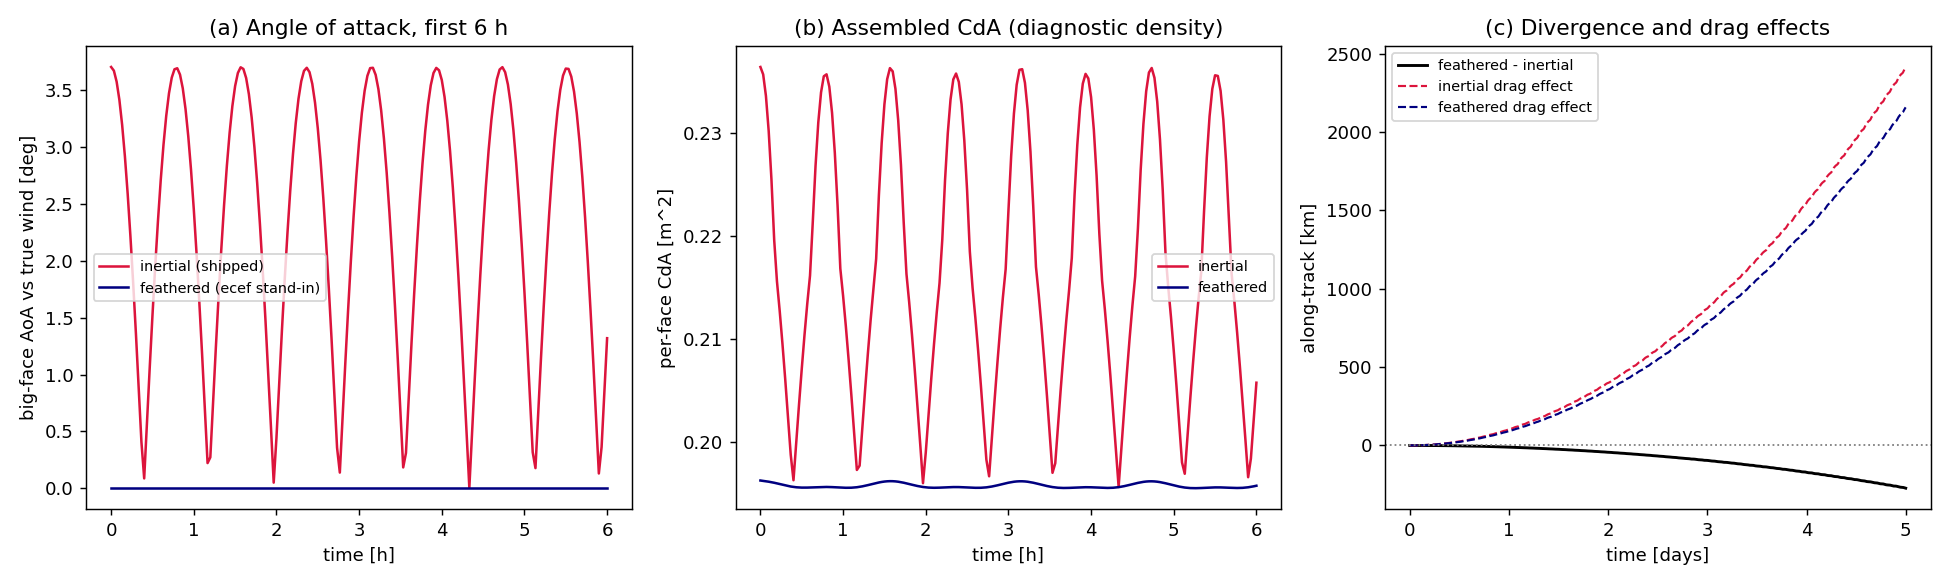
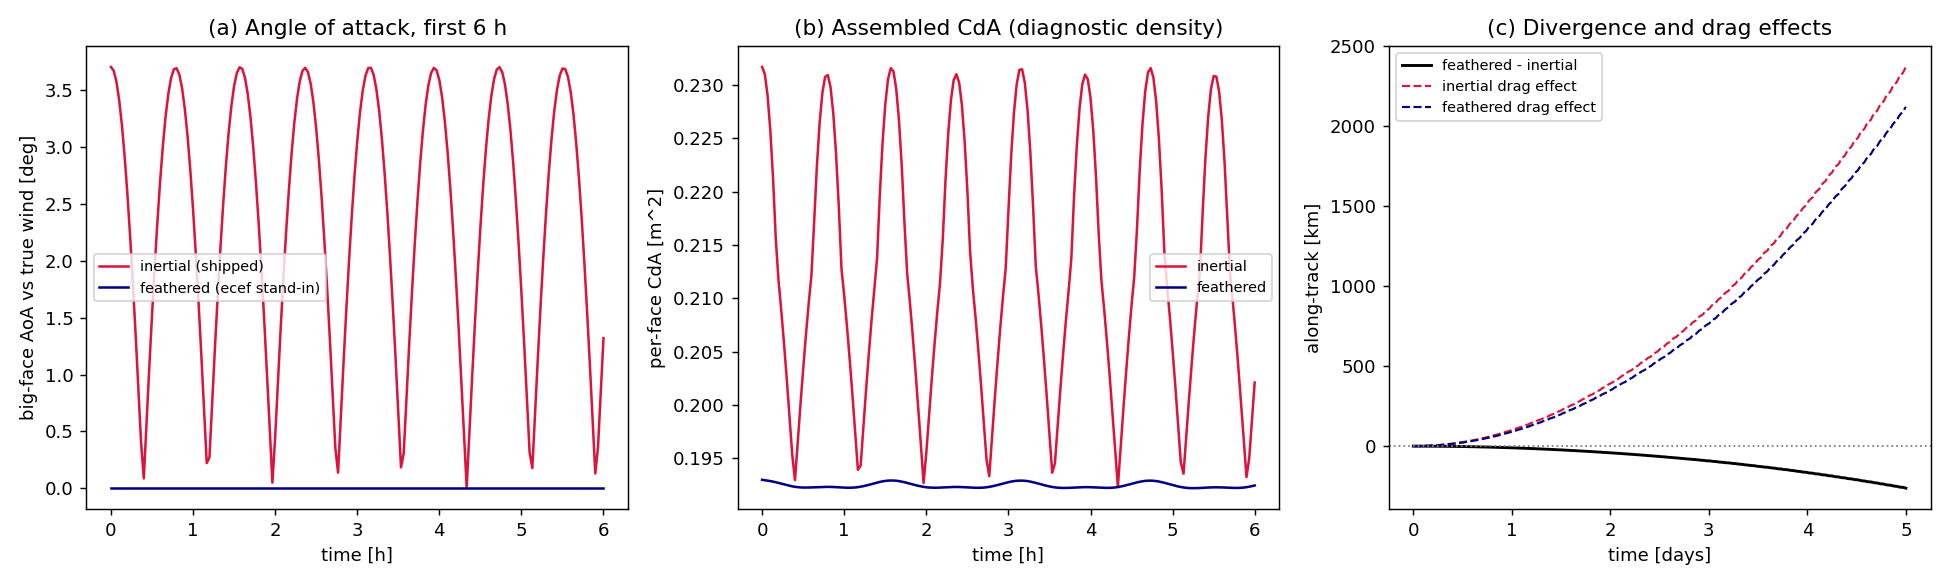
Re-run of ECEF feather study with new Cd tables.

diff --git a/src/propygator/propagation/spacecraft.py b/src/propygator/propagation/spacecraft.py
@@ -496,18 +496,18 @@ class BoxFaceCd:
     attitude-correlated, so its orbit-level benefit depends on how the body flies.
     For **face-on / nadir-held / tumbling / Sun-pointing** flight a best-fit
     *physical* constant Cd (or :class:`VariableCd`) absorbs almost all of it
-    (< 1 % along-track over a multi-day LEO run), and ``BoxFaceCd`` is not worth its
+    (~1 % along-track over a multi-day LEO run), and ``BoxFaceCd`` is not worth its
     per-substep cost. Its load-bearing case is **grazing / edge-on flight of a
     high-area-to-mass flat plate** (a solar / drag sail), where the tangential shear
     dominates: a physical constant Cd *under*-predicts along-track by a factor of ~2
-    that a recalibrated scalar cannot absorb (~1400-1640 km / 5 d at 400 km, solar
-    max; best-fit Cd ~= 4.7 still leaves a ~100 km residual). That non-absorbable
-    regime is why it ships. The ~2x is measured with :class:`InPlaneTracking` at its
-    default *inertial* velocity reference, so the body sat a few degrees off the true
-    Earth-relative flow (the idealized perfectly-edge-on benefit is larger, ~9x).
+    that no physical scalar can absorb (~1490-1590 km / 5 d at 400 km, solar max;
+    the best-fit Cd ~= 4.6 is above the free-molecular range and still leaves a
+    ~35 km residual). That non-absorbable regime is why it ships. The ~2x is measured
+    with :class:`InPlaneTracking` at its default *inertial* velocity reference, so the
+    body sat a few degrees off the true Earth-relative flow.
     ``InPlaneTracking(velocity_reference="ecef")`` now closes that gap — it holds the
     plate exactly on the co-rotating flow, a real but modest further refinement
-    (~1.12x drag-effect cut, −273 km along-track / 5 d, for a 1 m² / 0.5 kg sail on a
+    (~1.12x drag-effect cut, −263 km along-track / 5 d, for a 1 m² / 0.5 kg sail on a
     500 km SSO at solar max; inclination-dependent, vanishing for equatorial
     prograde). Evidence: ``experiments/ecef-attitude-benefit/``.
     """

diff --git a/experiments/drag-coefficient-verification/cd_box_benefit_study_edgeon.py b/experiments/drag-coefficient-verification/cd_box_benefit_study_edgeon.py
@@ -251,7 +251,7 @@ def main() -> None:
     print(f"along-track by ~{abs(f_cd22)/1e3:.0f} km over {WINDOW_DAYS:.0f} days; "
           f"recovering it needs Cd~{c_star:.1f} "
           f"({'above' if c_star > PHYSICAL_CD_CEIL else 'within'} the physical range).")
-    print(f"(Not the idealized ~9x: InPlaneTracking tracks INERTIAL velocity, but the")
+    print(f"(Short of a perfect edge-on hold: InPlaneTracking tracks INERTIAL velocity, but the")
     print(f" flow is Earth-relative (co-rotation), so the sail sits a few deg off exact")
     print(f" edge-on -- the large faces keep some projected area Tier A does capture.)")
     print(f"At this altitude/epoch, BoxFace drag is {drag_vs_srp:.1f}x the SRP effect, "

diff --git a/docs/features.md b/docs/features.md
@@ -430,7 +430,7 @@ BoxFaceCd.from_callable(fn, *, name=None)    # fn(radius_m, density_kgm3, theta_
 
 **Tier B — per-face incidence table (`BoxFaceCd`, convex box).** A box's true Cd also depends on how each *face* meets the flow. `BoxFaceCd` resolves this per face: a single universal `(geocentric radius, total density, face-flow angle θ ∈ [0, π])` table whose value is **one face's** Cd, referenced to that face's **full** area, as a function of the angle θ between the face normal and the incoming flow (θ = 0 head-on, π⁄2 edge-on, π fully leeward). The incidence projection is already baked in — the normal-pressure part falls off as `cos θ`, but the tangential-shear part does **not** vanish edge-on (it floors at ~0.07 at θ = π⁄2 and tapers smoothly to ~0 by θ ≈ 110°) — so the table spans the leeward half and every face is a direct lookup. In free-molecular flow a **convex** body never self-shadows, so total drag is the exact **independent sum of the six per-face contributions**: at runtime the attitude rotates the flow direction into the body frame, each face's θ is formed, and `CdA = Σ_i Cd_i · A_i` is assembled over the full face areas (no re-projection) and applied as the sphere-style `a = ½ (CdA/m) ρ |v_rel| v_rel`. Because the coefficient is per-unit-area and geometry-independent, **one shipped default serves every convex box and plate** — `BoxFaceCd.default()` (asset `data/box_face_cd_default.npz`), carrying the same gas-surface assumptions as the Tier A sphere default (SESAM accommodation anchored α = 0.90 / 400 km solar-max, diffuse re-emission, 300 K wall); a spacecraft with markedly different surface physics supplies its own via `from_table` / `from_callable`. The axis is θ (not `cos θ`): the shear's `sin θ` factor is smooth in θ but becomes `√(1−cos²θ)` — an infinite-derivative cusp at the poles — in `cos θ`, so a θ axis interpolates linearly with clean ~2nd-order convergence and no special node placement. All six faces are evaluated (windward *and* leeward) — dropping the leeward/edge shear would understate a near-cubic bus's drag by ~5–11 % at a face-on attitude and inject a non-physical discontinuity there. `BoxFaceCd` is **convex-box-only**: valid on `box_and_panels` with `solar_array_area_m2 == 0` (a protruding, articulating array makes the body non-convex, and its sweeping bus-array shadowing needs a panel method / DSMC — out of scope). Binding design: `docs/history/general-upgrades-1.md` "Tier B Drag".
 
-**When `BoxFaceCd` matters (honest, scenario-dependent).** The per-face correction is *attitude-correlated*, so its orbit-level benefit depends entirely on how the body flies. For a bus flown **face-on / nadir-held / tumbling / Sun-pointing** — where the ram meets faces near head-on — a best-fit *physical* constant Cd (or `VariableCd`) absorbs almost all of the difference: the along-track divergence over a multi-day LEO propagation is **< 1 %**, and `BoxFaceCd` is not worth its per-substep cost there. Its load-bearing case is **grazing / edge-on flight of a high-area-to-mass flat plate (a solar / drag sail)**: there the tangential shear dominates, a physical constant Cd (2.2, or `VariableCd`) *under*-predicts along-track by ~1400–1640 km over 5 days at 400 km / solar max, and the constant needed to patch it (best-fit Cd ≈ 4.7) is unphysically large and *still* leaves a ~100 km residual — a **~2× effect a recalibrated scalar cannot absorb**. That non-absorbable regime is why `BoxFaceCd` ships. **Caveat on the ~2× figure:** it was measured with `InPlaneTracking` at its default **inertial** velocity reference, so the body sat a few degrees off the true Earth-relative flow (the idealized perfectly-edge-on benefit is larger, ~9×). That limitation is now addressable: **`InPlaneTracking(velocity_reference="ecef")`** (a v0.5.0 general upgrade) holds the plate exactly on the co-rotating flow. Feathering to the true wind is a real but modest *further* refinement, honestly measured with the shipped mode: for a 1 m² / 0.5 kg sail on a 500 km SSO at solar max it cuts the drag effect another **~1.12×** (−273 km along-track over 5 days vs the `inertial` reference); the wind misalignment peaks at ~3.7° for near-polar orbits and vanishes for equatorial prograde, so the benefit is inclination-dependent. Binding design: `general-upgrades-1.md` "ECEF InPlaneTracking"; evidence: `experiments/ecef-attitude-benefit/`.
+**When `BoxFaceCd` matters (honest, scenario-dependent).** The per-face correction is *attitude-correlated*, so its orbit-level benefit depends entirely on how the body flies. For a bus flown **face-on / nadir-held / tumbling / Sun-pointing** — where the ram meets faces near head-on — a best-fit *physical* constant Cd (or `VariableCd`) absorbs almost all of the difference: the along-track divergence over a multi-day LEO propagation is **~1 %** (worst case 1.12 % of the drag effect over 3 days), and `BoxFaceCd` is not worth its per-substep cost there. Its load-bearing case is **grazing / edge-on flight of a high-area-to-mass flat plate (a solar / drag sail)**: there the tangential shear dominates, a physical constant Cd (2.2, or `VariableCd`) *under*-predicts along-track by ~1490–1590 km over 5 days at 400 km / solar max, and the constant needed to patch it (best-fit Cd ≈ 4.6) is above the free-molecular range and still leaves a ~35 km residual — a **~2× effect no physical scalar can absorb**. That non-absorbable regime is why `BoxFaceCd` ships. **Caveat on the ~2× figure:** it was measured with `InPlaneTracking` at its default **inertial** velocity reference, so the body sat a few degrees off the true Earth-relative flow. That limitation is now addressable: **`InPlaneTracking(velocity_reference="ecef")`** (a v0.5.0 general upgrade) holds the plate exactly on the co-rotating flow. Feathering to the true wind is a real but modest *further* refinement, honestly measured with the shipped mode: for a 1 m² / 0.5 kg sail on a 500 km SSO at solar max it cuts the drag effect another **~1.12×** (−263 km along-track over 5 days vs the `inertial` reference); the wind misalignment peaks at ~3.7° for near-polar orbits and vanishes for equatorial prograde, so the benefit is inclination-dependent. Binding design: `general-upgrades-1.md` "ECEF InPlaneTracking"; evidence: `experiments/ecef-attitude-benefit/`.
 
 **Runtime.** Each variable Cd maps to a thin custom `DragSensitive` whose `dragAcceleration` reads geocentric radius from the state, takes the passed-in total density (and, for `BoxFaceCd`, the attitude the state carries), interpolates Cd, and assembles `a = −½ (Cd·A/m) ρ |v_rel| v_rel` exactly as `IsotropicDrag` / the box model would. A `BoxFaceCd` instead sums the effective `CdA = Σ_i Cd_i · A_i` over the box's six faces inside its accel closure — it does **not** route through the Orekit box model (whose single uniform Cd cannot consume a per-face table; the box object is still built, but only to drive SRP). The inertial→body rotation is `state.getAttitude().getRotation().applyTo(...)`, verified to machine precision against Orekit's own box drag. **The custom `DragSensitive` is instantiated inside `propagate_numerical`, never at geometry construction** — that keeps the geometry factory on the safe-before-init surface (architecture §10).
 

diff --git a/experiments/ecef-attitude-benefit/README.md b/experiments/ecef-attitude-benefit/README.md
@@ -42,17 +42,19 @@ ratio 1.12×) → **GO**. The Chunk-4 refresh swapped in the shipped mode and th
 - `ecef_feather_benefit.png` — (a) AoA histories, (b) assembled per-face CdA,
   (c) along-track divergence + per-leg drag effects.
 
-## Result summary (2026-07-04 shipped-mode run, 0.5 kg)
+## Result summary (2026-10-12 run, SESAM-regenerated table, 0.5 kg)
 
 - Inertial-leg big-face AoA oscillates 0 → **3.707°** (predicted ~3.75°),
   mean 2.36°; the shipped ecef leg holds ~0 (reads 0.0000° against the
   diagnostic wind).
-- Mean per-face CdA: 0.2170 m² (inertial) vs 0.1955 m² (ecef) — **1.11×**;
-  the propagated drag effects differ by **1.12×** (2414.7 vs 2157.1 km
+- Mean per-face CdA: 0.2129 m² (inertial) vs 0.1922 m² (ecef) — **1.11×**;
+  the propagated drag effects differ by **1.12×** (2368.5 vs 2119.8 km
   along-track over 5 d) — internally consistent.
-- **Headline: the attitude reference alone moves the sail −272.7 km
+- **Headline: the attitude reference alone moves the sail −262.7 km
   along-track over 5 days** (~11 % of the total drag effect; drag dominates
-  SRP ~10,600× here).
-- **Shipped-vs-stand-in cross-check: 0.02 km max along-track over 5 days** —
+  SRP ~10,400× here).
+- **Shipped-vs-stand-in cross-check: 0.04 km max along-track over 5 days** —
   the shipped primary-slot provider and the independently-written feathered
-  law agree to the pole-offset scale, against a 273 km signal.
+  law agree to the pole-offset scale, against a 263 km signal.
+
+The 2026-07-04 run on the pre-SESAM table read −272.7 km and the same 1.12×.

diff --git a/experiments/drag-coefficient-verification/README.md b/experiments/drag-coefficient-verification/README.md
@@ -394,8 +394,8 @@ recovers it** — the best-fit is Cd ≈ 4.6 (above the ~2.6 ceiling propygator 
 flags as improbable), and even that leaves ~35 km of shape residual. So unlike the
 Sun-pointing case (best-fit Cd ≈ 2.4, physical, ~1% residual), the projected-area Tier
 A models here structurally miss the shear and only an above-physical fudge factor
-approximates BoxFace. **Caveat:** the effect is ~2×, **not** the ~9× a *perfect*
-edge-on hold would give — `InPlaneTracking` tracks *inertial* velocity while the flow
+approximates BoxFace. **Caveat:** the ~2× is measured with inertial tracking, short of a
+*perfect* edge-on hold — `InPlaneTracking` tracks *inertial* velocity while the flow
 is Earth-relative (co-rotation), leaving the sail a few degrees off exact edge-on, so
 the large faces keep some projected area Tier A does capture; tracking the true
 relative velocity would widen the gap. The result is also specific to the
